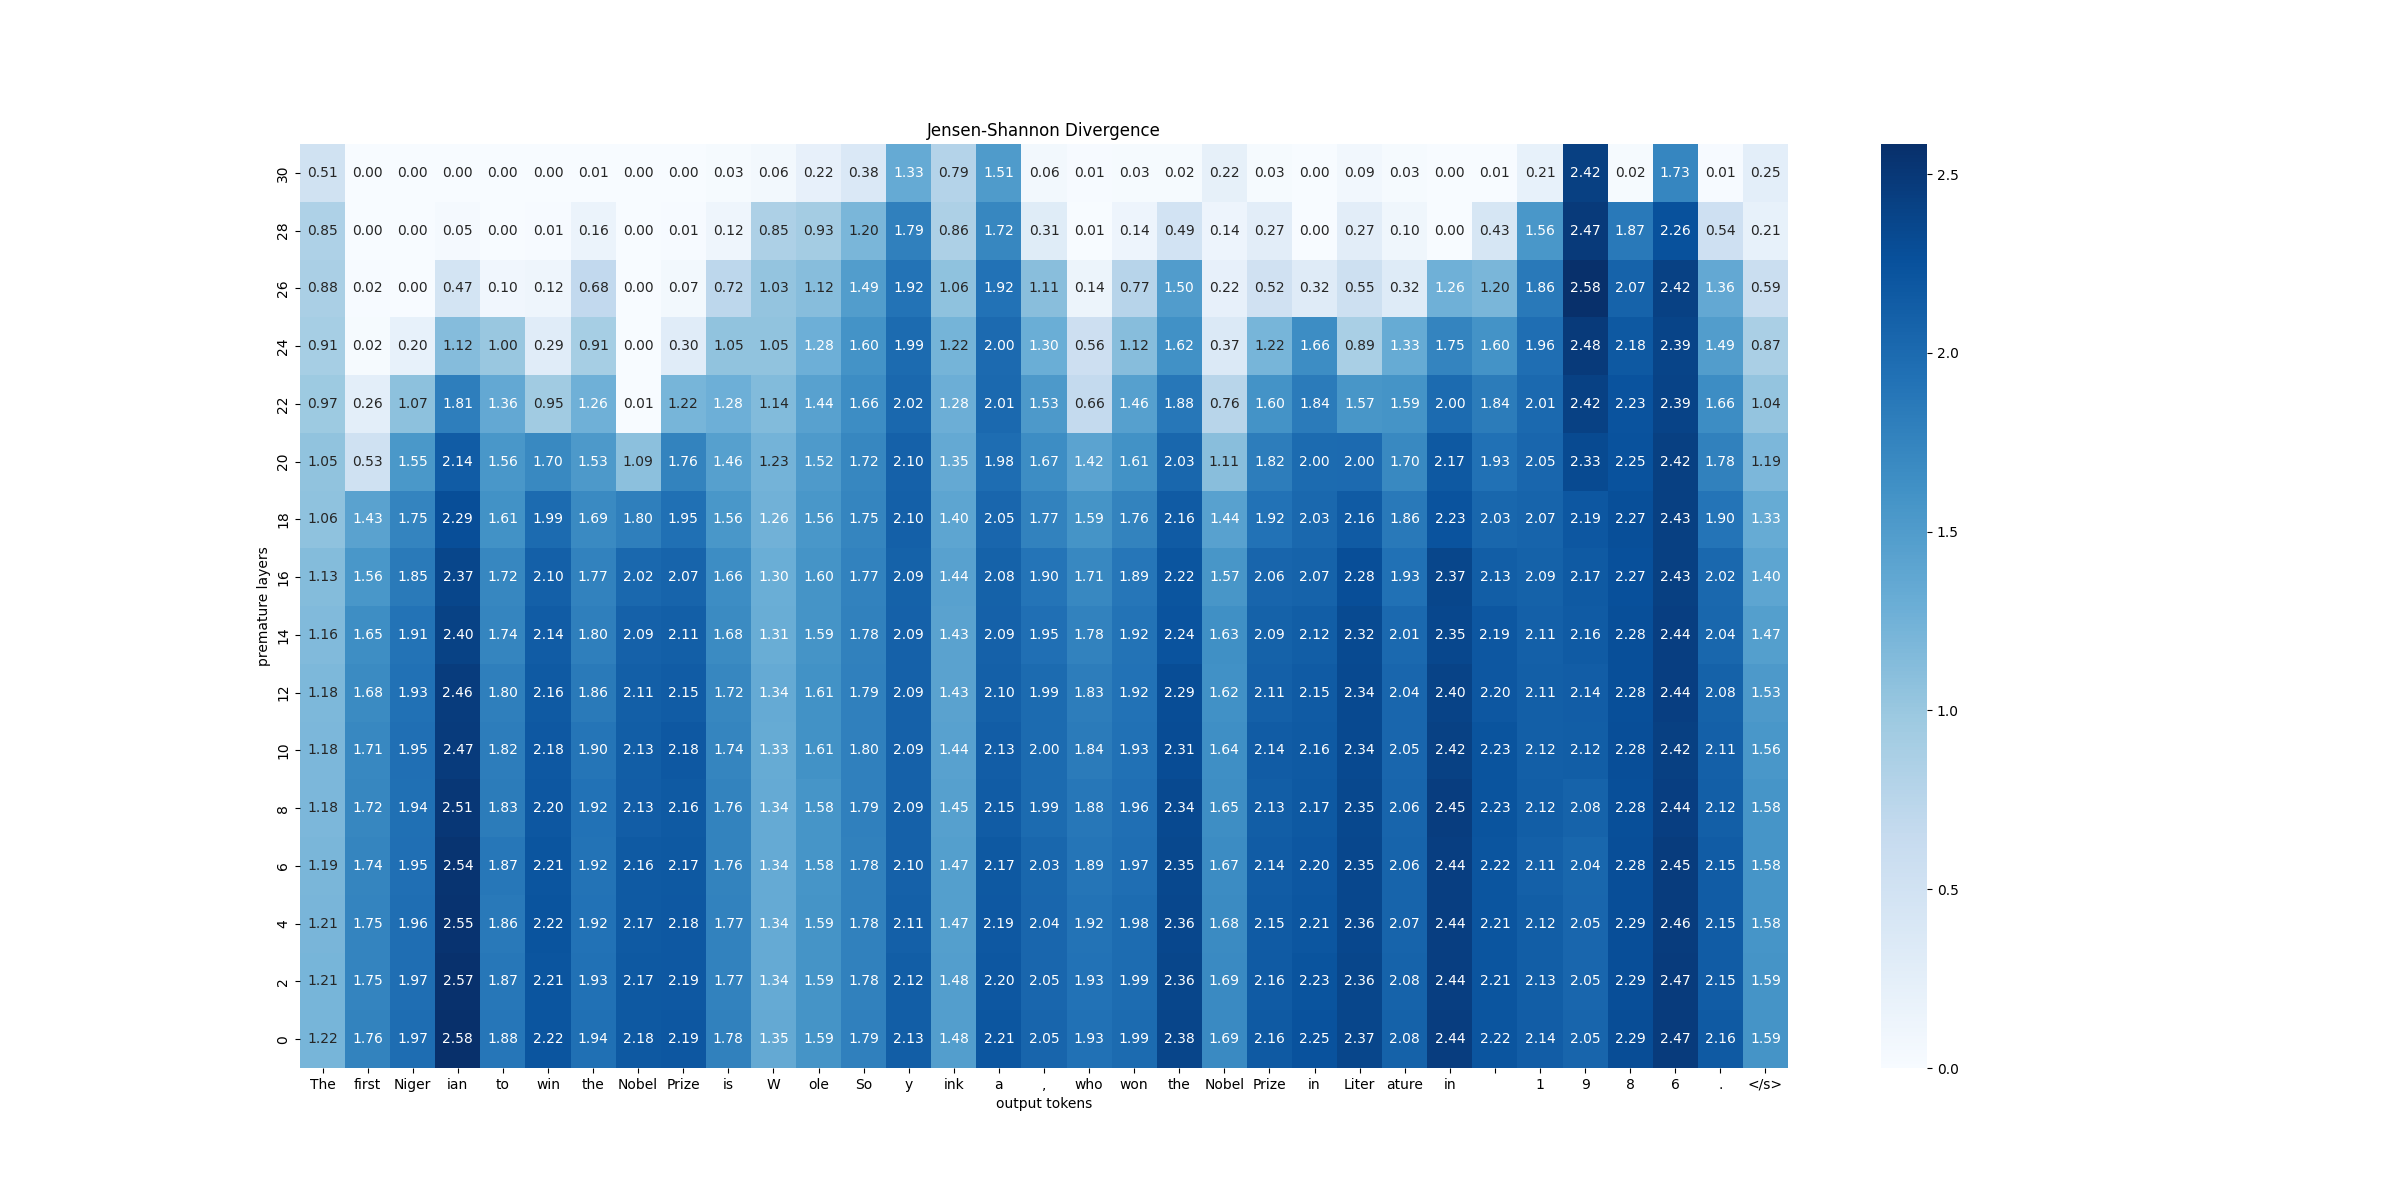
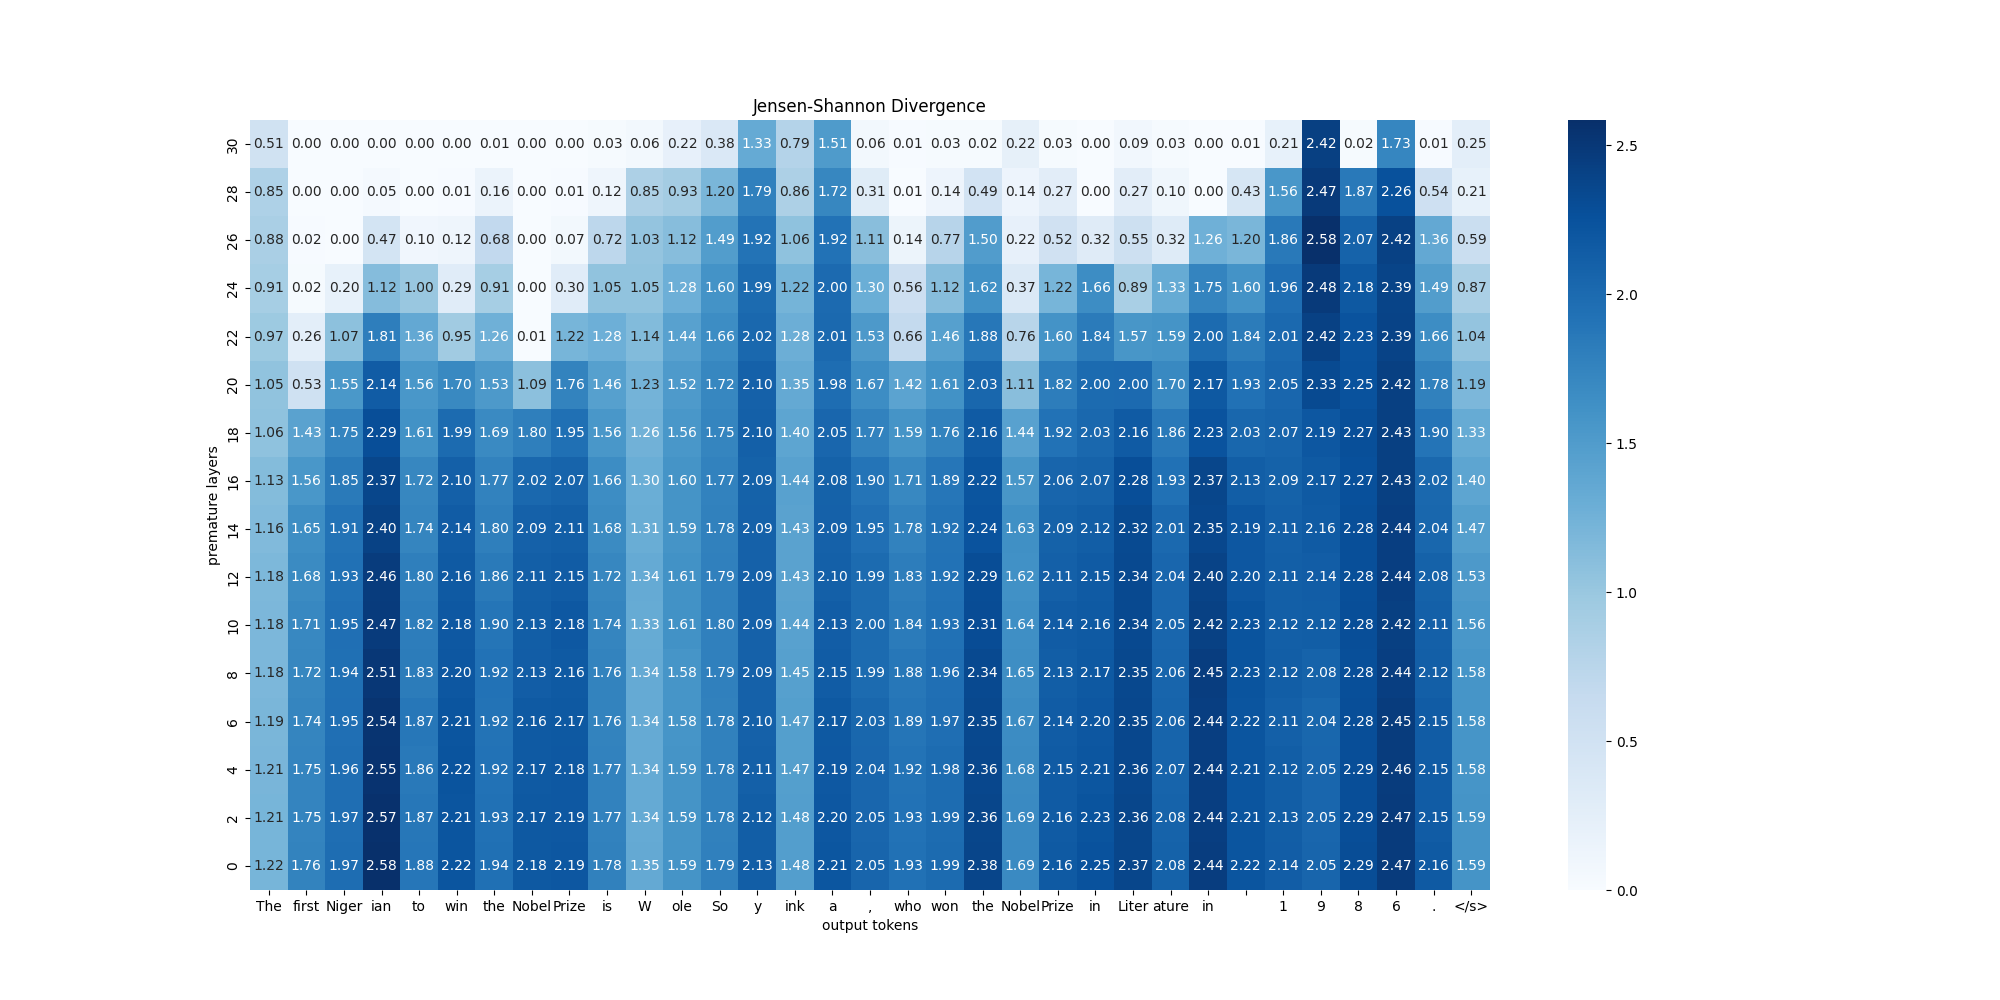
JSD plot

diff --git a/toy_dola_eval.py b/toy_dola_eval.py
@@ -167,7 +167,7 @@ if __name__ == "__main__":
 
     
     #set figure size
-    plt.figure(figsize=(24, 12))
+    plt.figure(figsize=(20, 10))
     # Create the heatmap
     ax = sns.heatmap(JSD_matrix, annot=True, fmt=".2f", cmap="Blues", xticklabels=column_labels)
 

diff --git a/README.md b/README.md
@@ -5,8 +5,10 @@
 
 run
 ```
-python ./MiniGPT-4/toy_dola_eval.py --model-name ./models/models--meta-llama--Llama-2-7b-chat-hf/snapshots/94b07a6e30c3292b8265ed32ffdeccfdadf434a8 --output-path output-path.json --num-gpus 1 --early-exit-layers 0,2,4,6,8,10,12,14,16,18,20,22,24,26,28,30
+python ./MiniGPT-4/toy_dola_eval.py --model-name ./models/models--meta-llama--Llama-2-7b-chat-hf/snapshots/94b07a6e30c3292b8265ed32ffdeccfdadf434a8 --output-path output-path.json --num-gpus 1 --early-exit-layers 0,2,4,6,8,10,12,14,16,18,20,22,24,26,28,30,32
 ```
+
+Note: adding 32 in the early-exit-layers is crucial for reasonable output.
 
 JSD for each candidate layer is printed and input at line 2720 of file ```./MiniGPT-4/DoLa/transformers-4.28.1/src/transformers/generation/utils.py```
 
